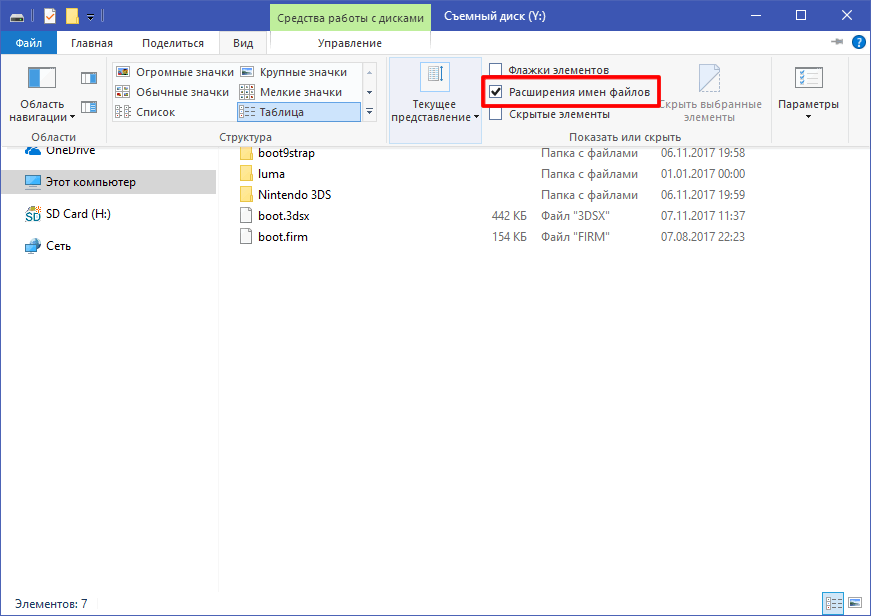
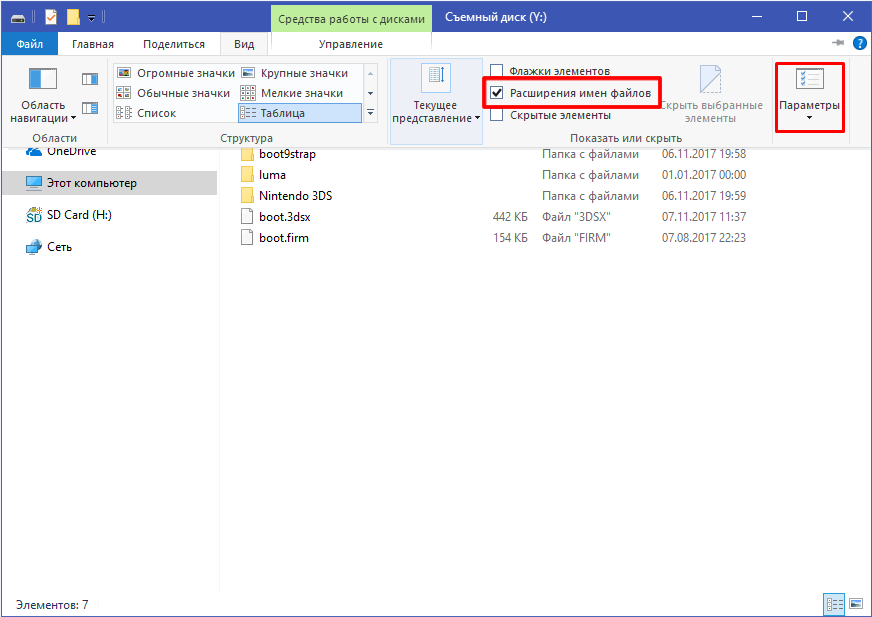
Добавил срытие системных файлов

Changed region(s): [[0.0, 0.0, 0.62, 0.4318], [0.434, 0.0, 1.0, 0.401], [0.0, 0.9562, 0.093, 0.987]]

diff --git a/_pages/file-extensions-windows.md b/_pages/file-extensions-windows.md
@@ -7,32 +7,38 @@ author_profile: true
 {% include toc title="Разделы" %}
 
 Это дополнительный раздел, служащий для отключения настройки Windows, по умолчанию скрывающей расширения файлов.
-
 Это позволит вам легче отыскать необходимые файлы в других частях руководства.
 
 # Инструкция
 
-## Windows 10 / 8.1 / 8
-
-1. Запустите Проводник, открыв любую папку, например папку вашей SD-карты
-1. Нажмите кнопку "Вид" в меню 
-1. Установите флажок "Расширения имен файлов"
+1. Запустите **Проводник**, открыв любую папку, например папку вашей SD-карты
+1. Нажмите кнопку "**Вид**" в меню 
+1. Установите флажок "**Расширения имен файлов**"
 
     ![]({{ "/images/screenshots/windows-10-file-extensions.png" | absolute_url }}){:target="_blank"}
+	{: .text-center}
+    {: .notice--info}
+    
+1. Нажмите на кнопку "**Параметры**"
+1. Нажмите на вкладку "**Вид**" в верхней части окна Параметры папок
+1. Снимите флажок "**Скрывать расширения для зарегистрированных типов файлов**"
+1. Снимите флажок "**Скрывать защищённые системные файлы**"
+
+    ![]({{ "/images/screenshots/windows-7-folder-options.png" | absolute_url }}){:target="_blank"}
 	{: .text-center}
     {: .notice--info}
 
 ## Windows 7
 
-1. Откройте меню Пуск, нажав на него, или с помощью клавиши Windows
-1. Введите в поле для поиска "Параметры папок" и выберите соответствующий результат
+1. Откройте меню **Пуск**, нажав на него, или с помощью клавиши **Windows**
+1. Введите в поле для поиска "**Параметры папок**" и выберите соответствующий результат
 
     ![]({{ "/images/screenshots/windows-7-folder-options-start-menu.png" | absolute_url }}){:target="_blank"}
 	{: .text-center}
     {: .notice--info}
 
-1. Нажмите на вкладку "Вид" в верхней части окна Параметры папок
-1. Снимите флажок "Скрывать расширения для зарегистрированных типов файлов"
+1. Нажмите на вкладку "**Вид**" в верхней части окна Параметры папок
+1. Снимите флажок "**Скрывать расширения для зарегистрированных типов файлов**"
 
     ![]({{ "/images/screenshots/windows-7-folder-options.png" | absolute_url }}){:target="_blank"}
 	{: .text-center}
